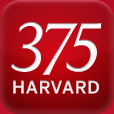
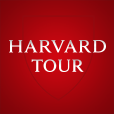
Refreshed theming (using Harvard-provided assets) to remove 375th Anniversary branding

diff --git a/site/Harvard-Tour/app/common/css/compliant.css b/site/Harvard-Tour/app/common/css/compliant.css
@@ -7,11 +7,6 @@
 	text-decoration: none;
 	color: #505050
 }
-.h375logo {
-  margin: 1em auto; 
-  padding-bottom: 1em;
-}
-
 h2.lensname {
 	display: none;
 	color: #333;
